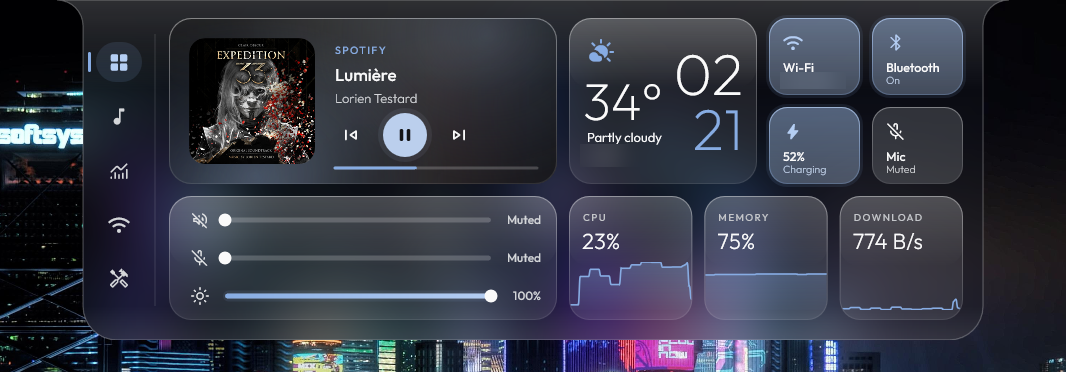
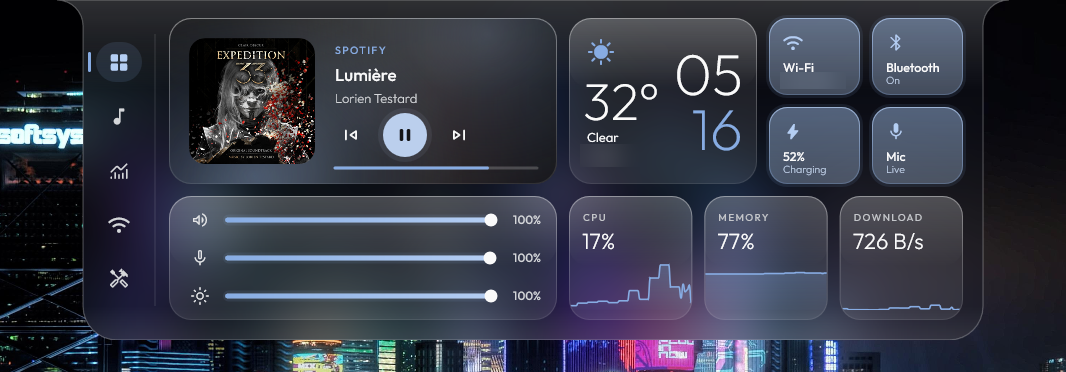
Readme: four looks, new home shot; lyrics ready before fullscreen
Home retaken in glass, and dark, light and custom shots in a new looks
section. Lyrics are now fetched while a song plays, and a song is only
marked as having none once every source has answered.

diff --git a/src/sys_lyrics.cpp b/src/sys_lyrics.cpp
@@ -533,7 +533,10 @@ struct LyricSrc::Impl {
     }
 
     std::vector<LyricLine> Kugou(Lane& ln, const std::wstring& title, const std::wstring& artist, double seconds, bool& reached) { // word-timed across much of the western catalogue
-        if (seconds <= 0) return {}; // matched on title and exact length, so the length must be known
+        if (seconds <= 0) { // matched on title and exact length: without the length there's nothing to match, a definite no
+            reached = true;
+            return {};
+        }
         std::string body;
         if (!Get(ln, L"https://mobileservice.kugou.com/api/v3/search/song?format=json&page=1&pagesize=8&showtype=1&keyword=" + Esc(artist + L" " + title), body)) return {};
         reached = true;
@@ -657,7 +660,7 @@ struct LyricSrc::Impl {
         t0.join();
         t1.join();
         t2.join();
-        reached = out[0].reached || out[1].reached || out[2].reached;
+        reached = out[0].reached && out[1].reached && out[2].reached; // "no lyrics" only counts when every source answered; a timeout means ask again
         int pick = -1;
         for (int k : {1, 2, 0}) // word-timed first: netease's yrc, then kugou, then lrclib's rare enhanced lrc
             if (pick < 0 && Worded(out[k].lines)) pick = k;
@@ -692,7 +695,7 @@ struct LyricSrc::Impl {
             std::lock_guard lock(mu);
             busyKey.clear();
             if (stop.load()) return;
-            if (doc->lines.empty() && !reached) { // offline or both services busy: not remembered, asked again in a while
+            if (doc->lines.empty() && !reached) { // offline, or a source didn't answer: not remembered, asked again in a while
                 failed.push_back({doc->key, GetTickCount64()});
                 if (failed.size() > 16) failed.pop_front();
                 continue;

diff --git a/src/model.cpp b/src/model.cpp
@@ -131,6 +131,8 @@ void Model::Tick() {
         charging = have && ps.ACLineStatus == 1;
     }
     if (mixerOpen) mixer.Refresh(); // apps come and go while it's shown
+    if (fullLyrics && hasTrack && track.music && track.duration > 0) // the song's lyrics, fetched while it plays: ready long before fullscreen opens; a cache check once known
+        lyrics.Want(track.title, track.artist, track.album, track.duration / 1e7);
     if (focusOn && GetTickCount64() >= focusEnd) { // a block ends: focus hands over to a break, a break to the next round
         focusEvent = focusBreak ? 2 : 1;
         if (focusBreak) ++focusRound;

diff --git a/README.md b/README.md
@@ -104,6 +104,29 @@ No Electron, no web view, no runtime to install. Just one small native executabl
   </tr>
 </table>
 
+### Four looks
+
+Glass (above), Dark, Light and Custom, where a color wheel picks any accent and any background.
+
+<table>
+  <tr>
+    <td width="50%"><img src="./.github/assets/screenshots/look_dark.png" alt="Dark look" /></td>
+    <td width="50%"><img src="./.github/assets/screenshots/look_light.png" alt="Light look" /></td>
+  </tr>
+  <tr>
+    <td align="center"><b>Dark</b></td>
+    <td align="center"><b>Light</b></td>
+  </tr>
+  <tr>
+    <td width="50%"><img src="./.github/assets/screenshots/look_custom.png" alt="Custom look" /></td>
+    <td width="50%"><img src="./.github/assets/screenshots/look_light_media.png" alt="Light look on the Media page" /></td>
+  </tr>
+  <tr>
+    <td align="center"><b>Custom</b></td>
+    <td align="center"><b>Light, with the album's colors</b></td>
+  </tr>
+</table>
+
 ## ⚡ Performance
 
 Astraeus is built to cost nothing while you are not looking at it. Measured on a modest laptop
